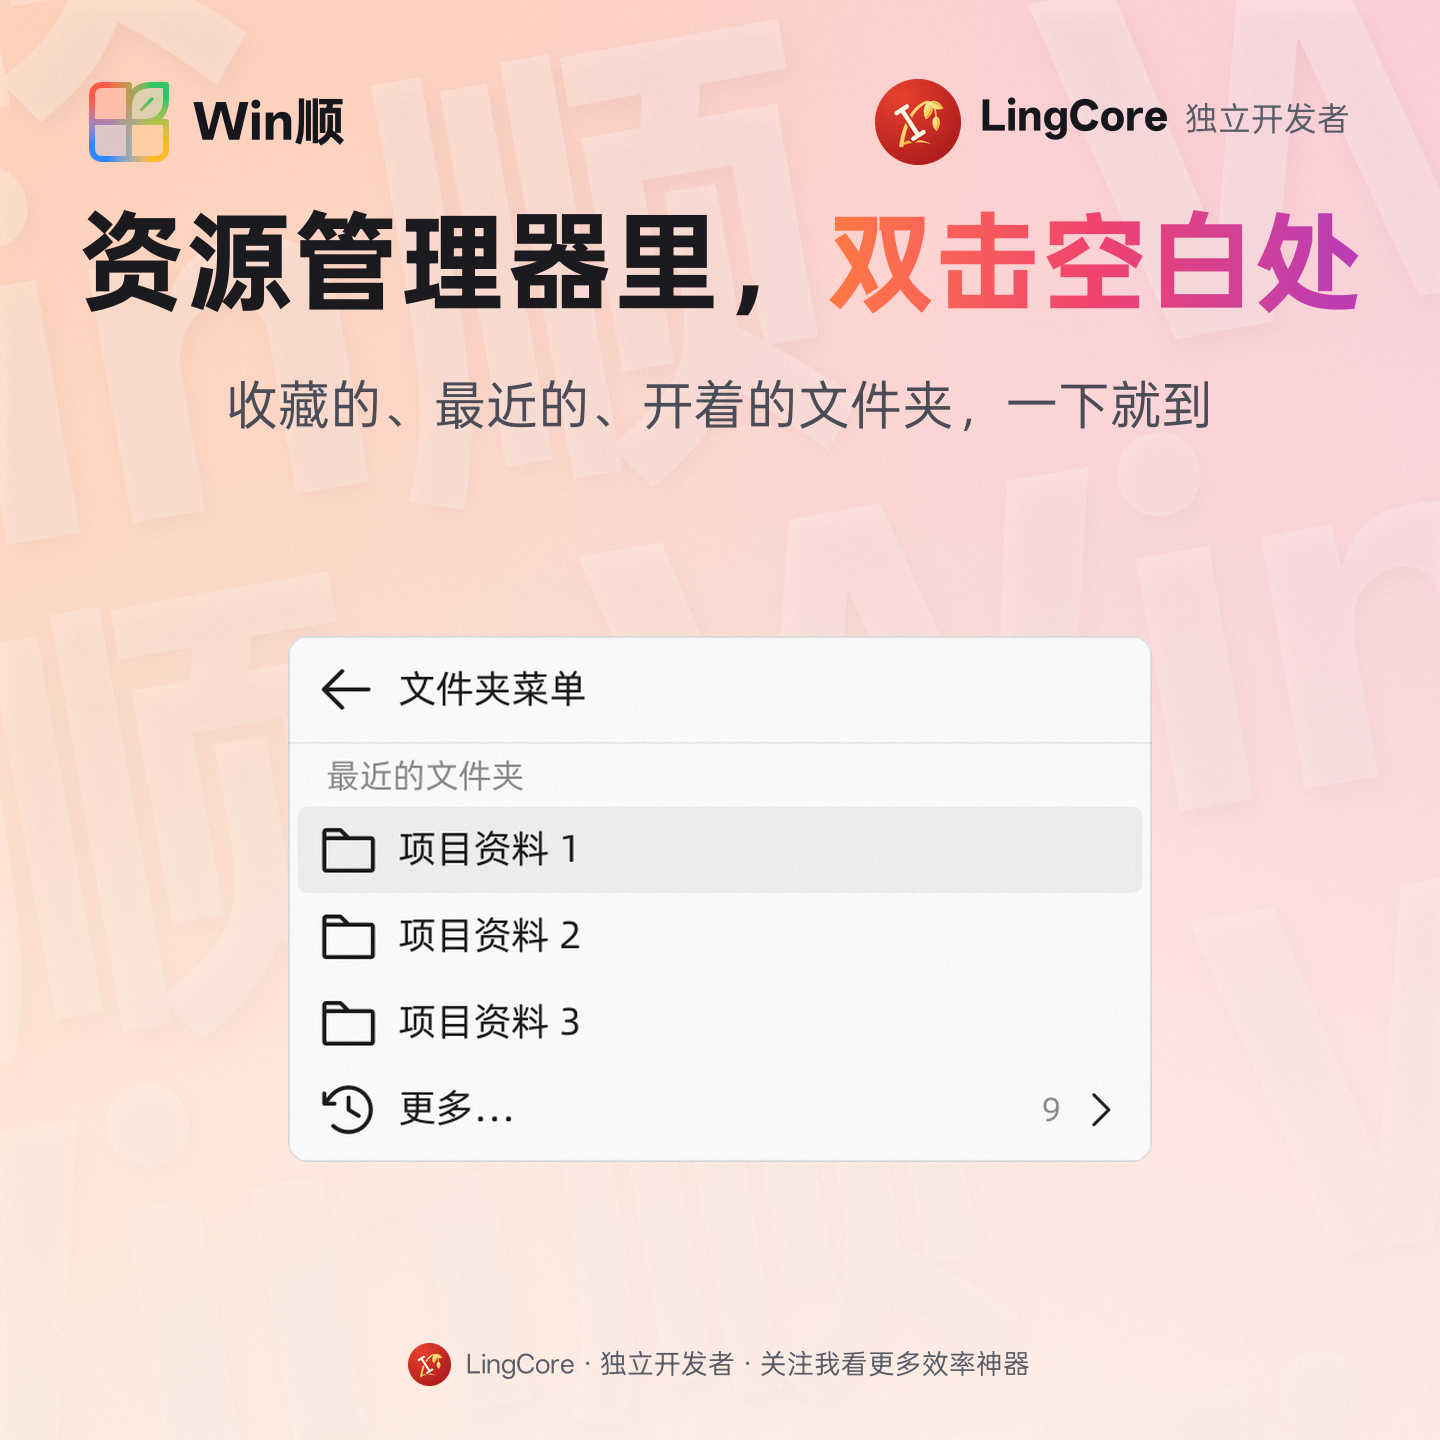
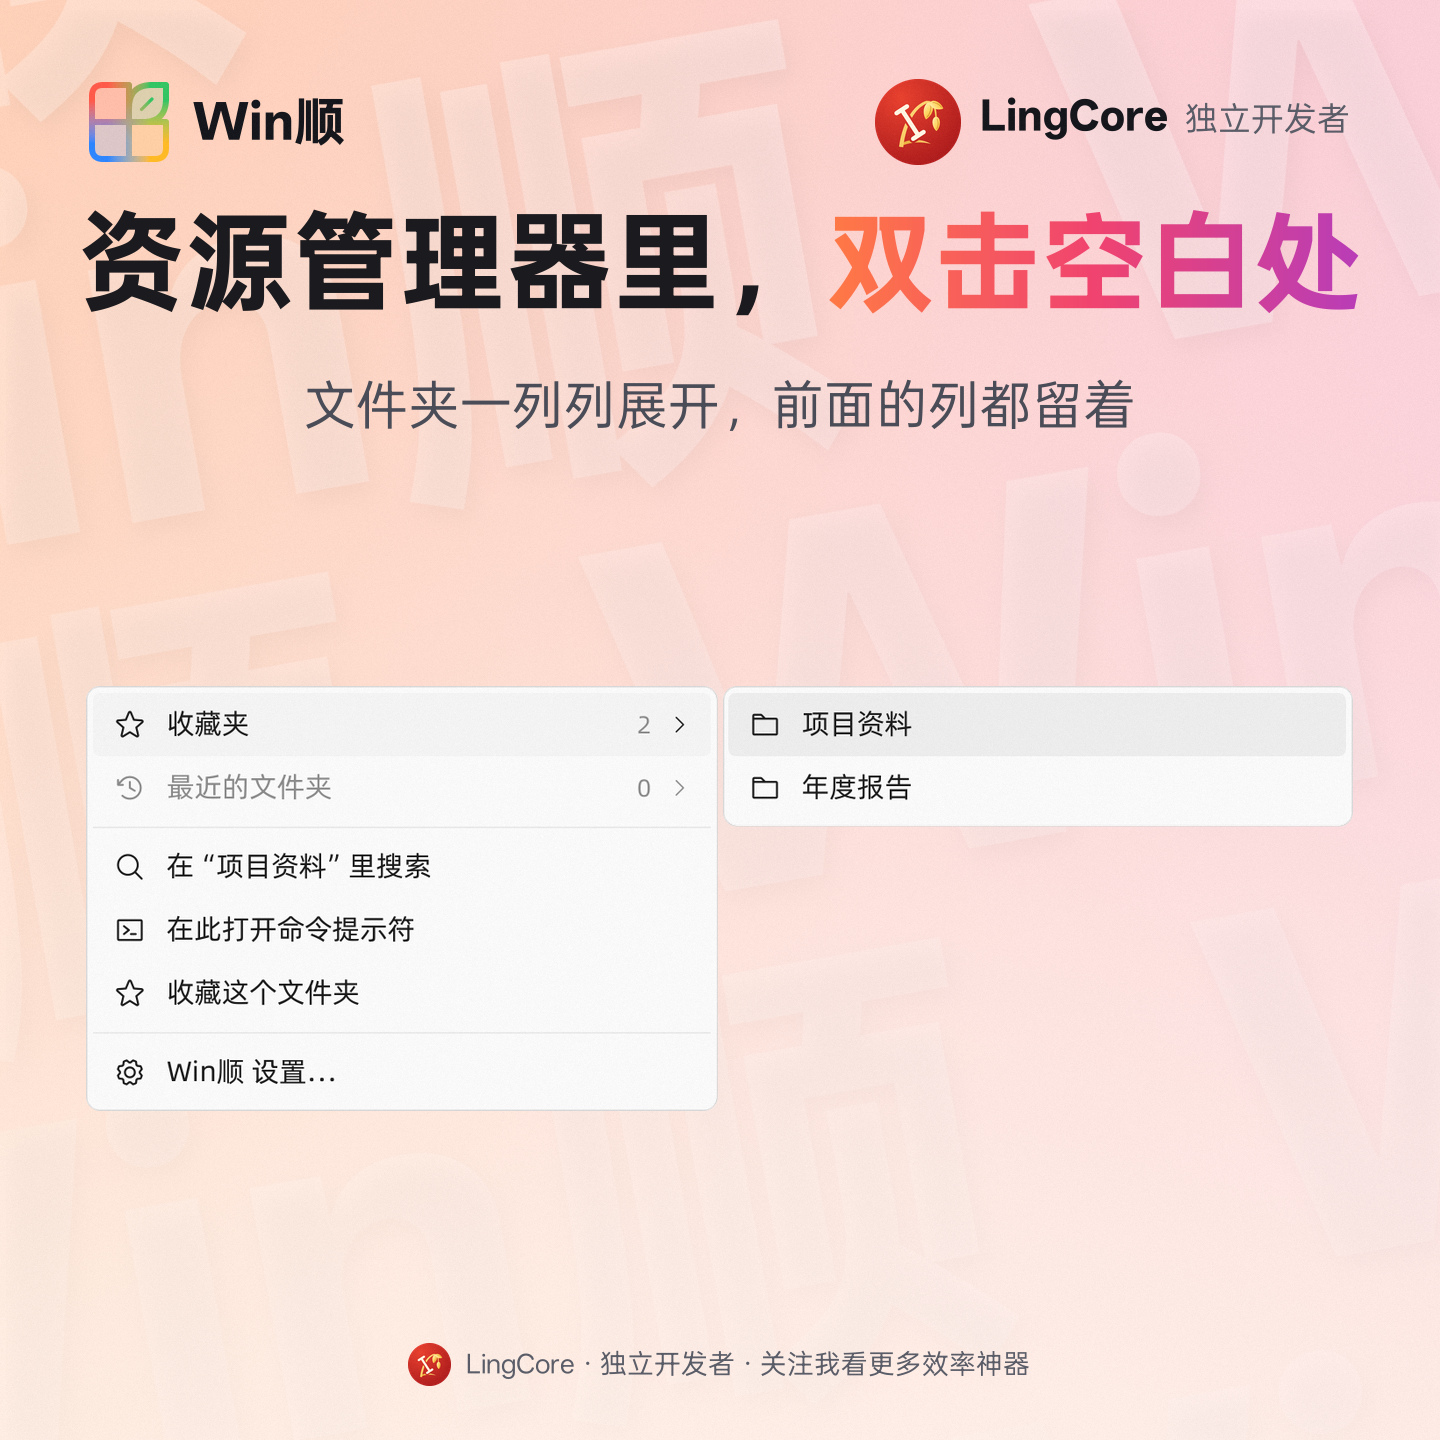
Poster: the folder menu's columns (#348)

Changed region(s): [[0.0625, 0.4375, 0.9375, 0.8125], [0.1562, 0.25, 0.8438, 0.3125]]

diff --git a/tools/screenshots/release033.py b/tools/screenshots/release033.py
@@ -1,0 +1,69 @@
+"""Export the poster 0.33.0 redoes, from a production preview of its build.
+
+The raw pictures come from a run of the release build's WinShun.exe (an
+isolated temporary TEMP, --scale 2 --renderer d3d11, QT_FONT_DPI=96, see
+release027.py) into the --work directory:
+
+  style   WinShun.exe --preview-results <work>/style --style-windows
+
+One poster is redone: the folder menu, whose folders now open in columns side
+by side (#348) instead of pages with a back row. The preview grabs the menu
+and its first column as two windows (style-foldermenu-cascade.png, the two at
+their real places); drawn off the screen they have no native frame, so each
+gets the rounded corners and hair of edge of a Windows 11 window here, a few
+pixels apart, as the two windows stand. Without a poster: pins edited in place,
+the translation hotkey, Tab for whole windows (the capture plugin's previews
+show no pin or selection of a real desktop), winshun:// links, the Dense size,
+Tab into folders and the dialog bar over the taskbar (#362), seen live only.
+"""
+import argparse
+from pathlib import Path
+import sys
+
+sys.dont_write_bytecode = True
+
+from PIL import Image
+
+import art
+import release017
+import shots
+
+MENU_WIDTH = 720  # style-foldermenu.png: the menu alone, at 2x
+GAP = 6
+
+SOURCES = {
+    "foldermenu": ("L-foldermenu", "style/foldermenu-columns.png", None),
+}
+
+POSTERS = (
+    ("foldermenu", "L-foldermenu", "资源管理器里，[双击空白处]", "文件夹一列列展开，前面的列都留着"),
+)
+
+
+def columns(work: Path) -> None:
+    cascade = Image.open(work / "style/style-foldermenu-cascade.png").convert("RGBA")
+    alpha = cascade.getchannel("A")
+    menu = cascade.crop((0, 0, MENU_WIDTH, cascade.height))
+    column_box = alpha.crop((MENU_WIDTH, 0, cascade.width, cascade.height)).getbbox()
+    column = cascade.crop((MENU_WIDTH, 0, cascade.width, column_box[3]))
+    menu, column = art.screen_piece(menu, radius=16), art.screen_piece(column, radius=16)
+    out = Image.new("RGBA", (menu.width + GAP + column.width, menu.height))
+    out.alpha_composite(menu, (0, 0))
+    out.alpha_composite(column, (menu.width + GAP, 0))
+    out.save(work / "style/foldermenu-columns.png")
+
+
+def main():
+    parser = argparse.ArgumentParser(description=__doc__)
+    parser.add_argument("--exe", type=Path, required=True)
+    parser.add_argument("--work", type=Path, required=True)
+    args = parser.parse_args()
+    columns(args.work.resolve())
+    release017.SOURCES = SOURCES
+    shots.README_ONLY = tuple(entry for entry in shots.README_ONLY if entry[0] not in dict(SOURCES)) + POSTERS
+    sys.argv = [sys.argv[0], "--exe", str(args.exe), "--work", str(args.work), "--export-only"]
+    release017.main()
+
+
+if __name__ == "__main__":
+    main()
